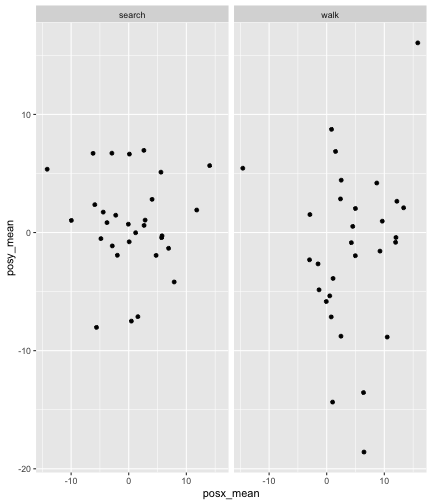
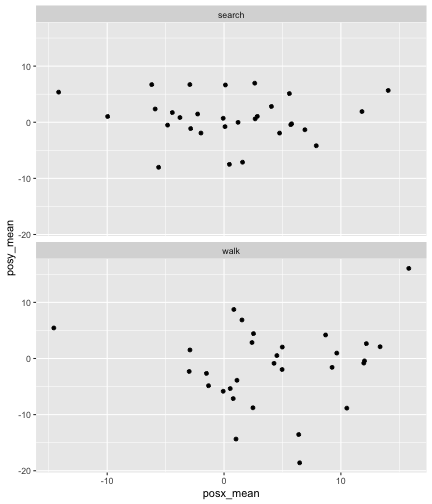
saving plots

diff --git a/docs/index.html b/docs/index.html
@@ -727,8 +727,6 @@ ggplot(ds, aes(x = posx_mean, y = posy_mean, color = condition)) +
 
 
 ---
-### Faceting is another option
----
 count: false
  
 Facetting a scatterplot
@@ -768,7 +766,7 @@ Facetting a scatterplot
 ```r
 ggplot(ds, aes(x = posx_mean, y = posy_mean)) +
   geom_point() +
-* facet_wrap("condition")
+* facet_wrap("condition", ncol = 1)
 ```
 ]
  
@@ -805,6 +803,228 @@ ggplot(ds, aes(x = posx_mean, y = posy_mean)) +
 
 
 
+
+
+---
+count: false
+ 
+Saving plots
+.panel1-saving-auto[
+
+```r
+*ggplot(ds, aes(x = posx_mean, y = posy_mean)) + geom_point()
+```
+]
+ 
+.panel2-saving-auto[
+![](index_files/figure-html/saving_auto_01_output-1.png)&lt;!-- --&gt;
+]
+
+---
+count: false
+ 
+Saving plots
+.panel1-saving-auto[
+
+```r
+ggplot(ds, aes(x = posx_mean, y = posy_mean)) + geom_point()
+#ggsave will save the last plot to file
+*ggsave("eda/head-position-scatter.jpg")
+```
+]
+ 
+.panel2-saving-auto[
+![](index_files/figure-html/saving_auto_02_output-1.png)&lt;!-- --&gt;
+]
+
+---
+count: false
+ 
+Saving plots
+.panel1-saving-auto[
+
+```r
+ggplot(ds, aes(x = posx_mean, y = posy_mean)) + geom_point()
+#ggsave will save the last plot to file
+ggsave("eda/head-position-scatter.jpg")
+
+*#You can also save plots to objects (they are lists)  ou can also save plots to objects (they are lists)
+```
+]
+ 
+.panel2-saving-auto[
+![](index_files/figure-html/saving_auto_03_output-1.png)&lt;!-- --&gt;
+]
+
+---
+count: false
+ 
+Saving plots
+.panel1-saving-auto[
+
+```r
+ggplot(ds, aes(x = posx_mean, y = posy_mean)) + geom_point()
+#ggsave will save the last plot to file
+ggsave("eda/head-position-scatter.jpg")
+
+#You can also save plots to objects (they are lists)  ou can also save plots to objects (they are lists)
+*p1 &lt;- ggplot(ds, aes(x = posx_mean, y = posy_mean)) + geom_point()
+```
+]
+ 
+.panel2-saving-auto[
+![](index_files/figure-html/saving_auto_04_output-1.png)&lt;!-- --&gt;
+]
+
+---
+count: false
+ 
+Saving plots
+.panel1-saving-auto[
+
+```r
+ggplot(ds, aes(x = posx_mean, y = posy_mean)) + geom_point()
+#ggsave will save the last plot to file
+ggsave("eda/head-position-scatter.jpg")
+
+#You can also save plots to objects (they are lists)  ou can also save plots to objects (they are lists)
+p1 &lt;- ggplot(ds, aes(x = posx_mean, y = posy_mean)) + geom_point()
+*ggsave("eda/head-position-scatter.jpg", plot = p1)
+```
+]
+ 
+.panel2-saving-auto[
+![](index_files/figure-html/saving_auto_05_output-1.png)&lt;!-- --&gt;
+]
+
+&lt;style&gt;
+.panel1-saving-auto {
+  color: black;
+  width: 58.8%;
+  hight: 32%;
+  float: left;
+  padding-left: 1%;
+  font-size: 80%
+}
+.panel2-saving-auto {
+  color: black;
+  width: 39.2%;
+  hight: 32%;
+  float: left;
+  padding-left: 1%;
+  font-size: 80%
+}
+.panel3-saving-auto {
+  color: black;
+  width: NA%;
+  hight: 33%;
+  float: left;
+  padding-left: 1%;
+  font-size: 80%
+}
+&lt;/style&gt;
+
+
+
+
+
+---
+# Automation + plotting
+
+- Each plot you create will appear in the plots tab in RStudio
+
+- Flipping through a few plots is OK, but not hundreds
+
+- Write plotting functions that can save plots to file to better organize them
+
+---
+# Automation + plotting
+
+```r
+two_var_scatter &lt;- function(df, var1, var2) {
+  df_to_plot &lt;- df %&gt;% 
+    select(c(var1, var2)) %&gt;% 
+    rename(var_1 = 1, var_2 = 2)
+  p &lt;- ggplot(df_to_plot, aes(x = var_1, y = var_2)) + 
+    geom_point() + 
+    xlab(var1) + 
+    ylab(var2)
+  ggsave(str_glue("eda/{var1}_{var2}.jpg"), plot = p)
+  return(p)
+}
+two_var_scatter(ds, "posx_std", "posy_std")
+```
+
+![](index_files/figure-html/unnamed-chunk-14-1.png)&lt;!-- --&gt;
+
+---
+# Automation + plotting
+
+```r
+pred_x &lt;- colnames(select(ds, posx_mean:eyey_speed)) %&gt;% keep(str_detect, "x_")
+pred_x
+```
+
+```
+[1] "posx_mean"  "posx_std"   "posx_speed" "eyex_mean"  "eyex_std"  
+[6] "eyex_speed"
+```
+
+```r
+pred_y &lt;- colnames(select(ds, posx_mean:eyey_speed)) %&gt;% keep(str_detect, "y_")
+pred_y
+```
+
+```
+[1] "posy_mean"  "posy_std"   "posy_speed" "eyey_mean"  "eyey_std"  
+[6] "eyey_speed"
+```
+
+```r
+pred_x_by_y &lt;- map2(pred_x, pred_y, ~ two_var_scatter(ds, .x, .y))
+pred_x_by_y
+```
+
+```
+[[1]]
+```
+
+![](index_files/figure-html/unnamed-chunk-15-1.png)&lt;!-- --&gt;
+
+```
+
+[[2]]
+```
+
+![](index_files/figure-html/unnamed-chunk-15-2.png)&lt;!-- --&gt;
+
+```
+
+[[3]]
+```
+
+![](index_files/figure-html/unnamed-chunk-15-3.png)&lt;!-- --&gt;
+
+```
+
+[[4]]
+```
+
+![](index_files/figure-html/unnamed-chunk-15-4.png)&lt;!-- --&gt;
+
+```
+
+[[5]]
+```
+
+![](index_files/figure-html/unnamed-chunk-15-5.png)&lt;!-- --&gt;
+
+```
+
+[[6]]
+```
+
+![](index_files/figure-html/unnamed-chunk-15-6.png)&lt;!-- --&gt;
 
 
 &lt;!-- adjust font size and other formatting defs in this css code chunk --&gt;
